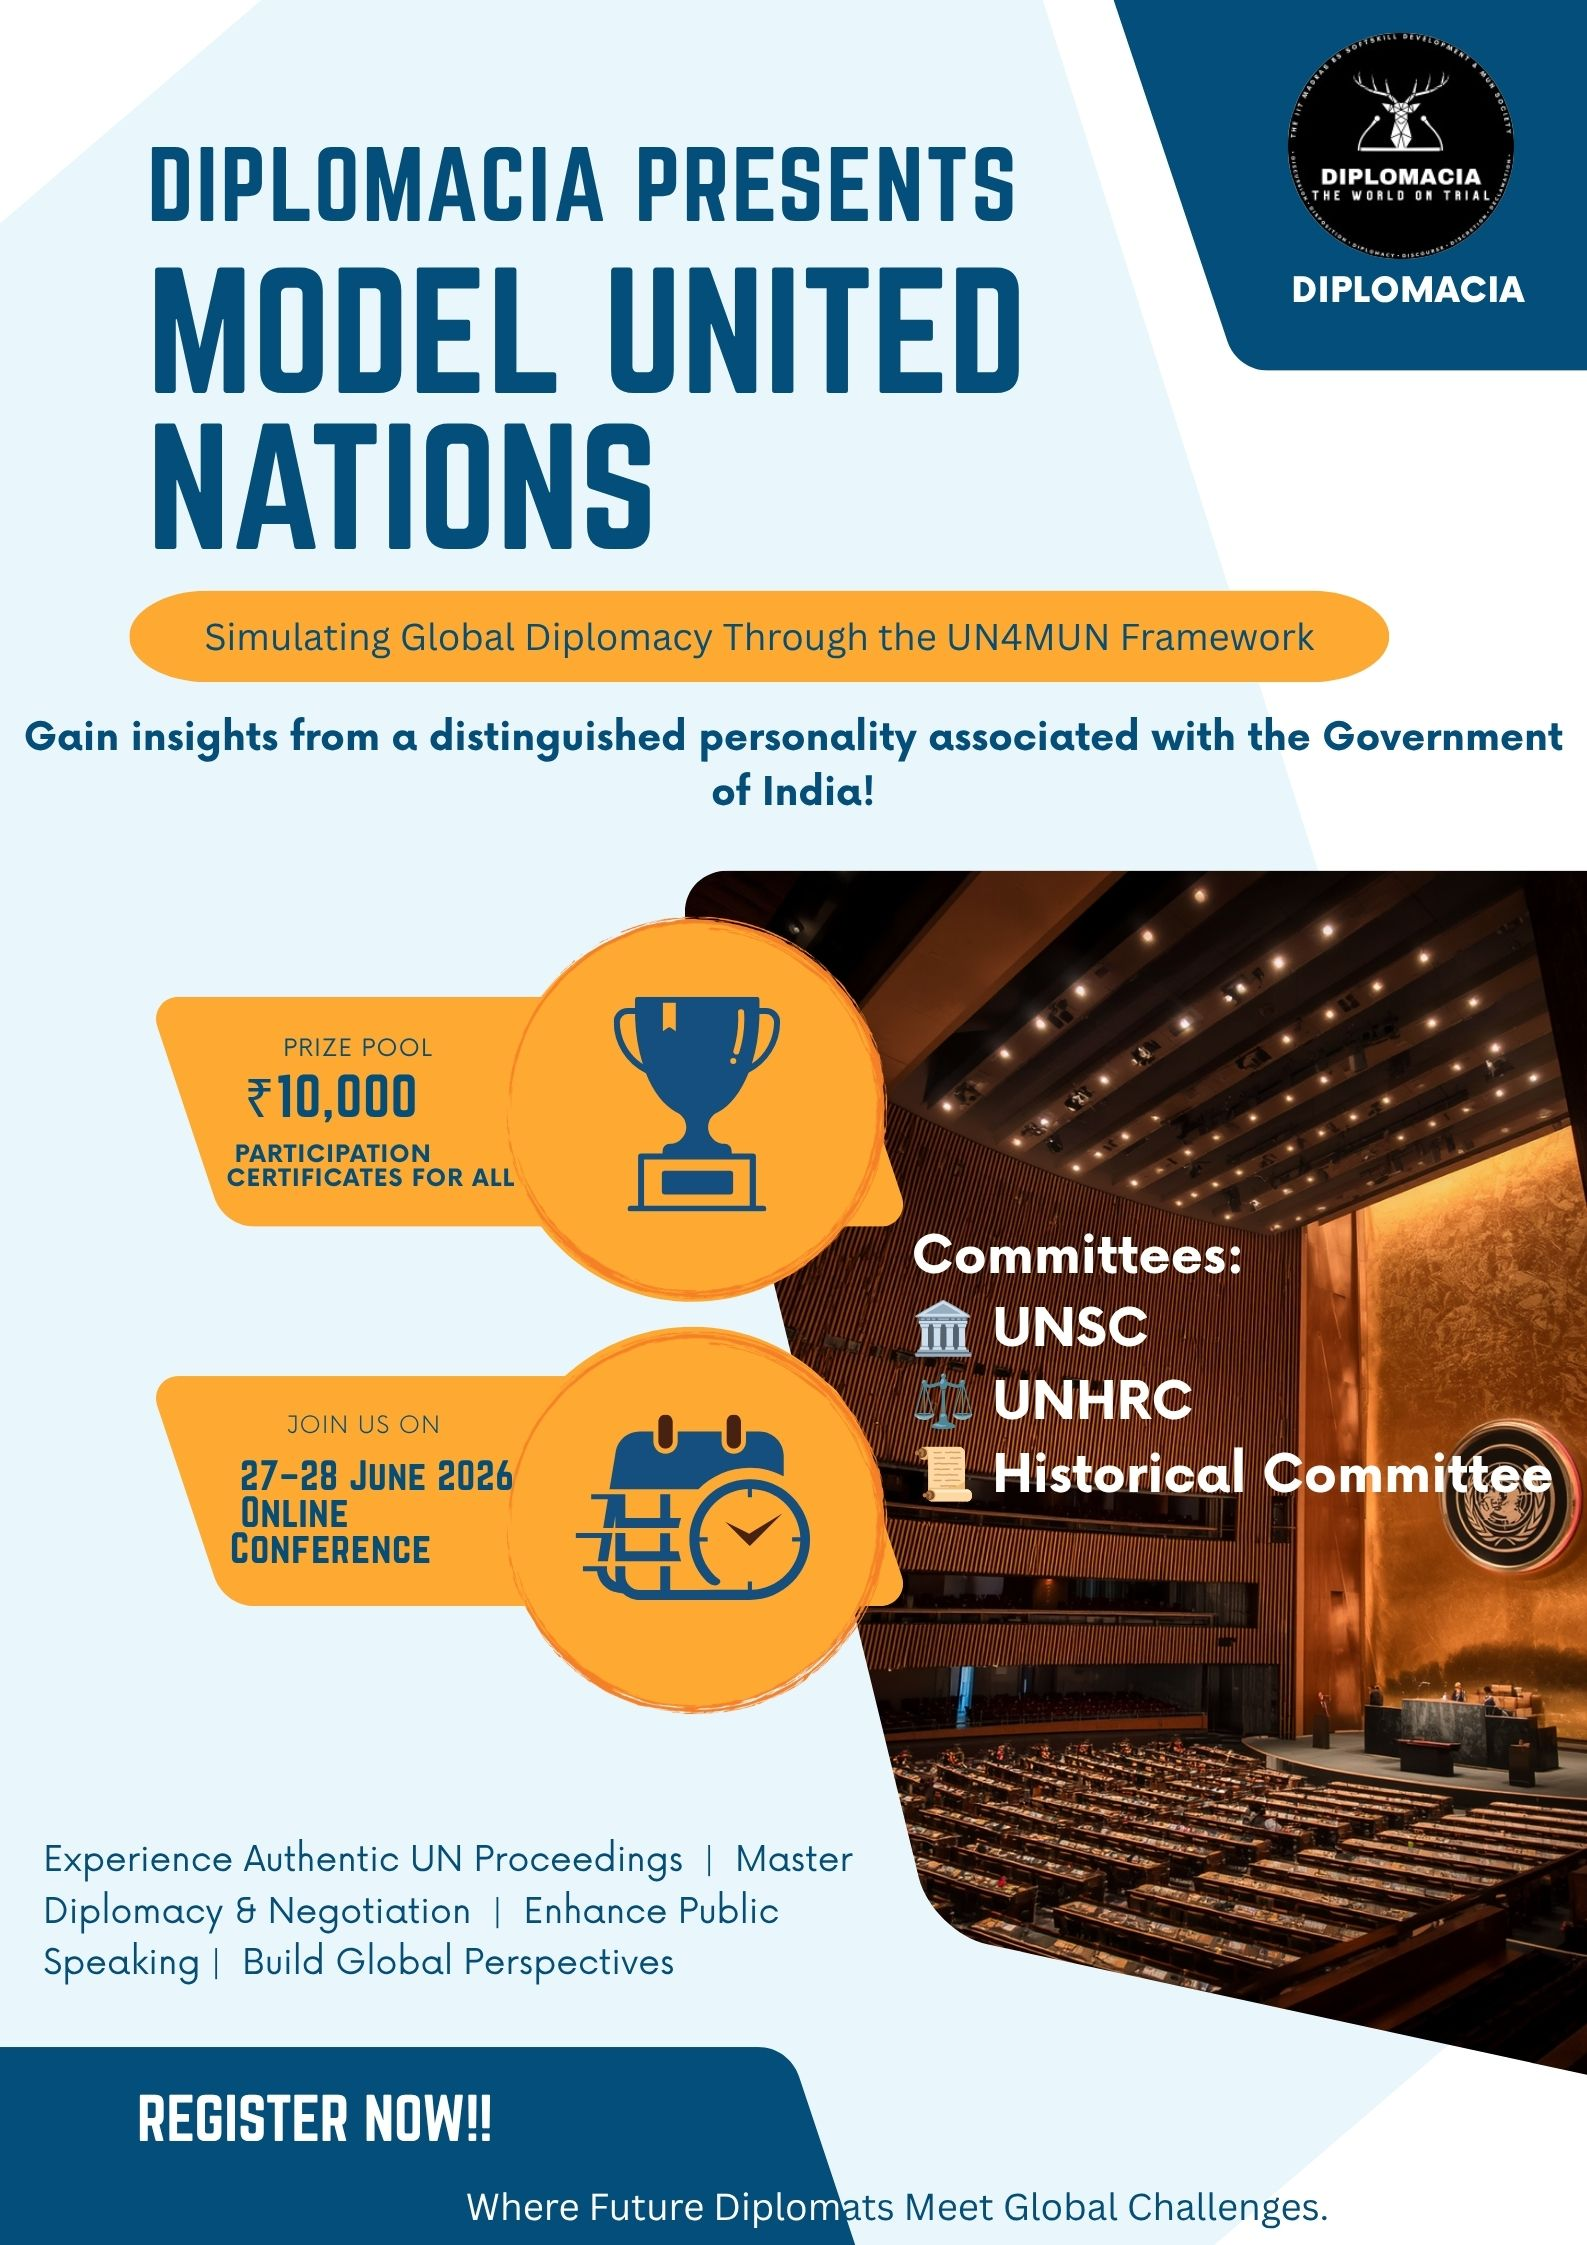
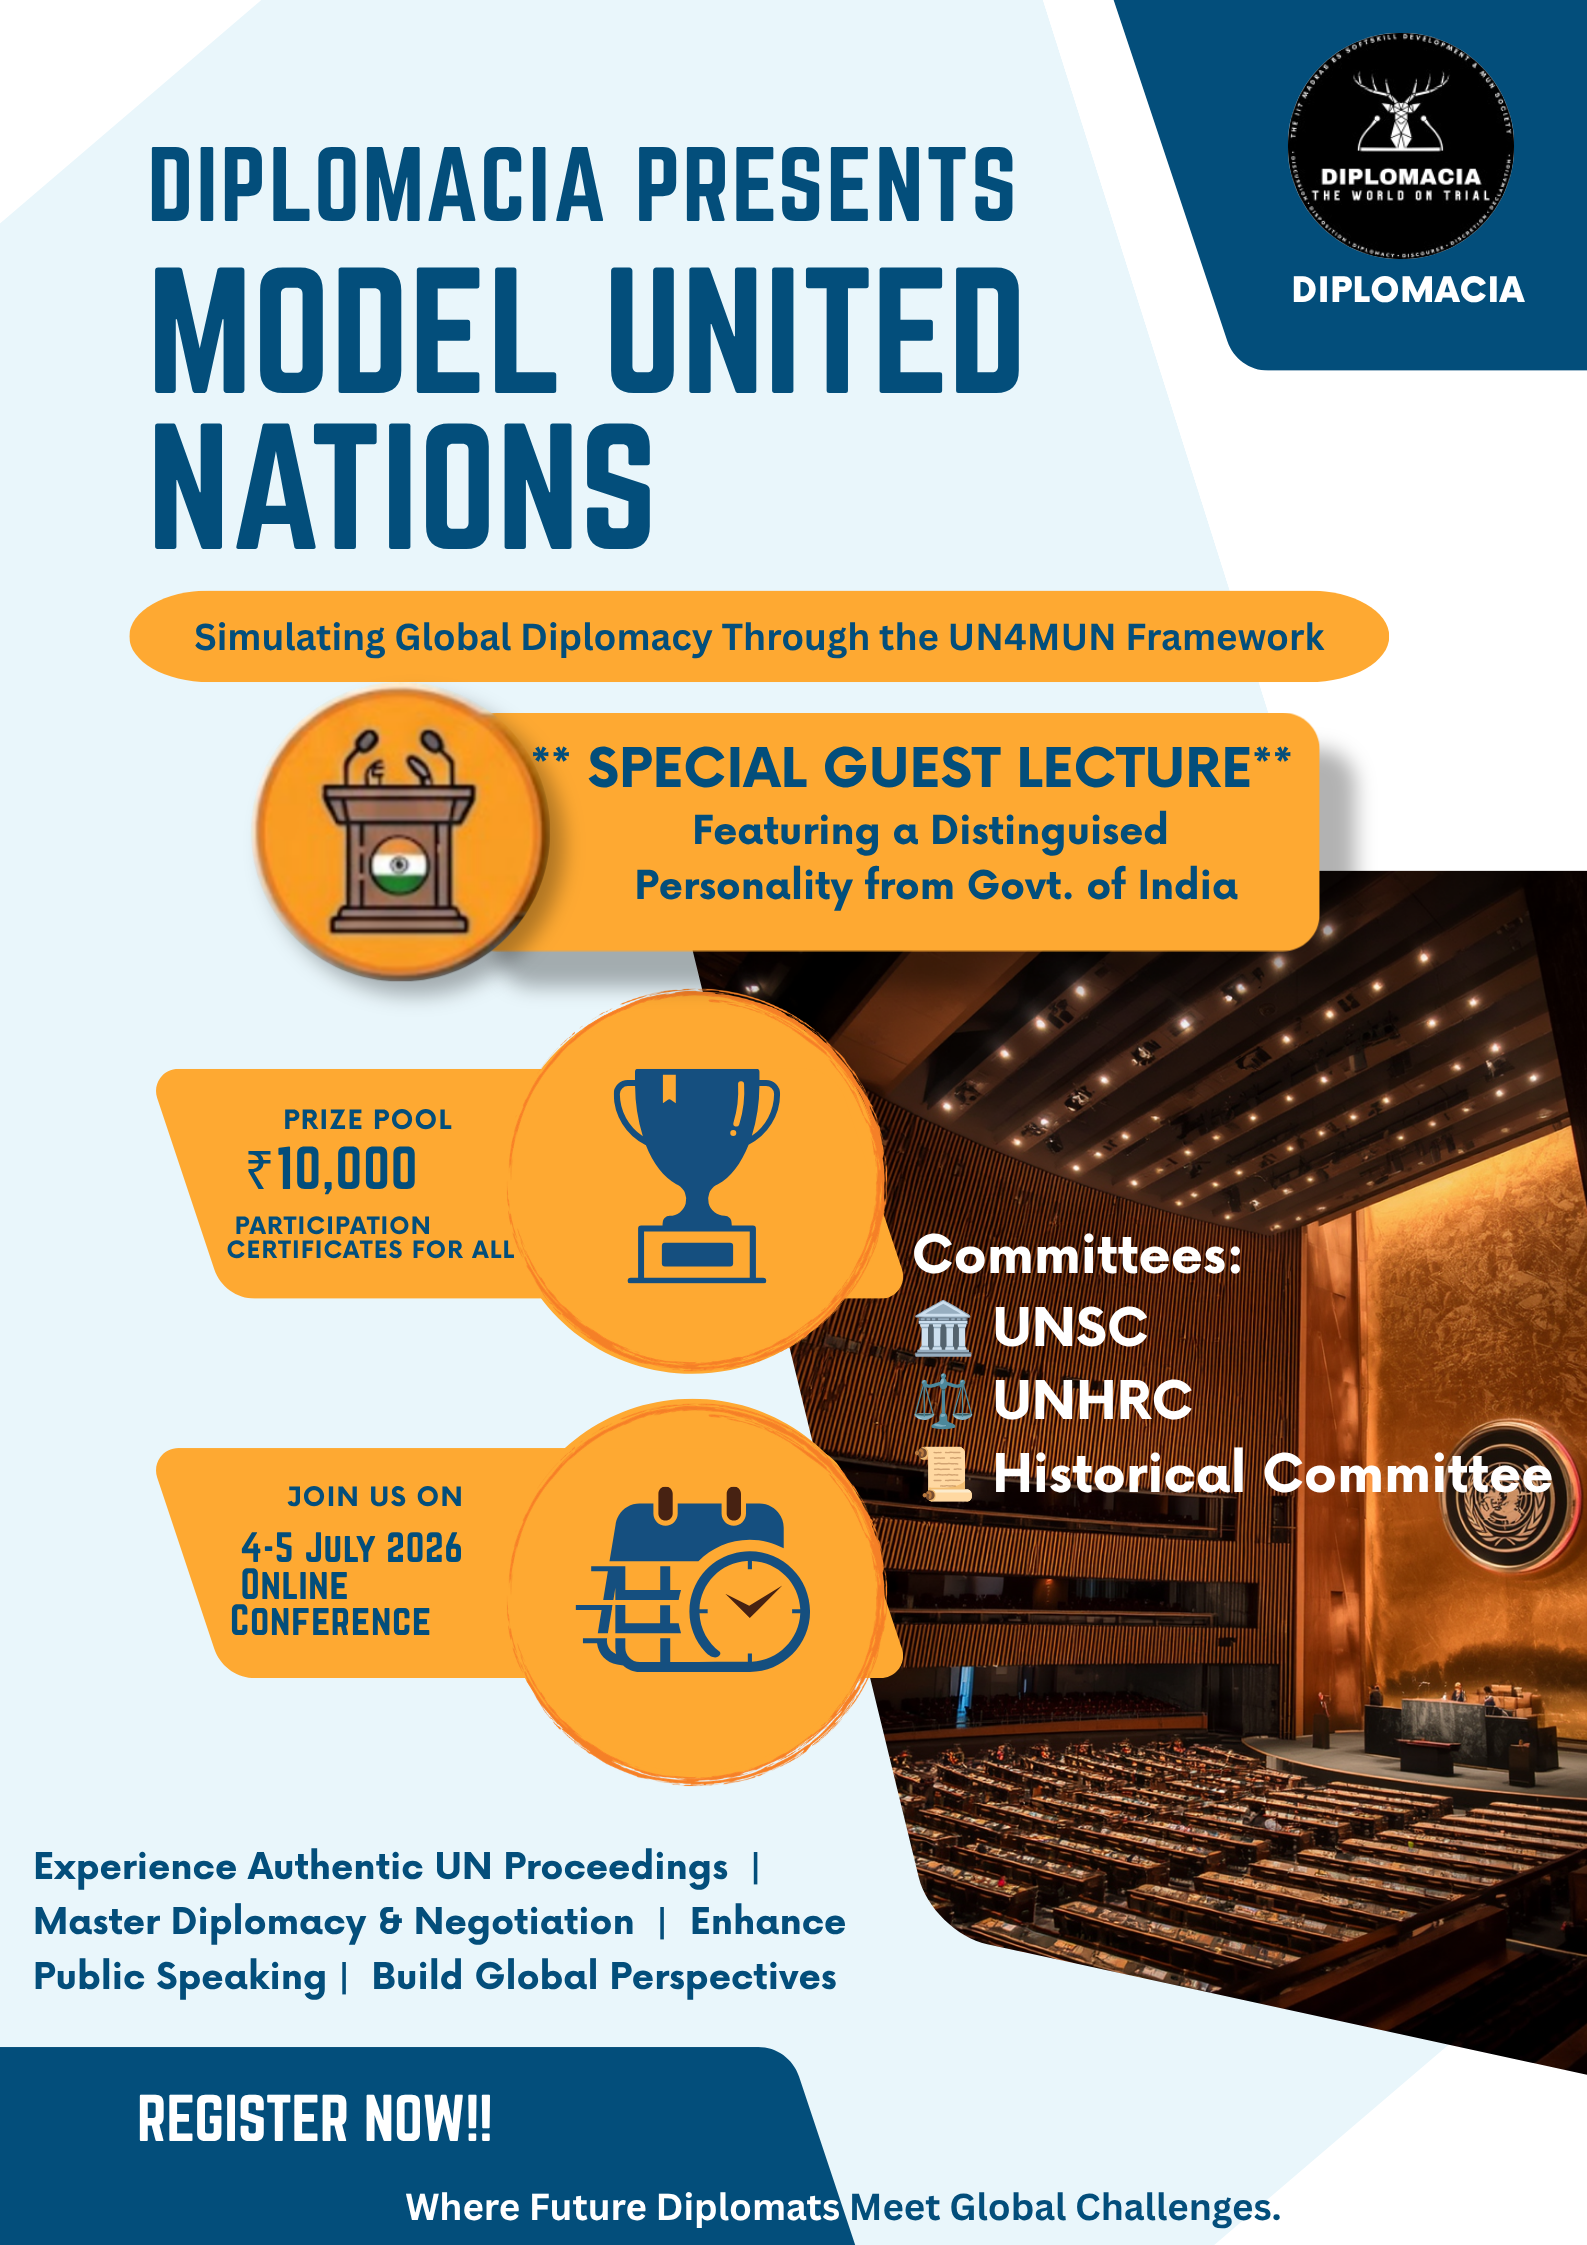
chore: update dates and posters for the un4mun and aippm events

Changed region(s): [[0.0, 0.2494, 0.988, 0.9042], [0.247, 0.9666, 0.8336, 0.9978], [0.1235, 0.9354, 0.1544, 0.9666]]

diff --git a/data/events.ts b/data/events.ts
@@ -32,7 +32,7 @@ export const featuredEvents: FeaturedEvent[] = [
         sessions: [
             {
                 title: "AIPPM 2026",
-                date: "28 June 2026",
+                date: "5 July 2026",
                 description: "Discussions on the Constitution (131st Amendment) Bill, 2026 with Special Emphasis on Women's Reservation and Delimitation.",
                 poster: "/assets/featured_events/aippm/AIPPM 2026.png"
             }
@@ -46,6 +46,32 @@ export const featuredEvents: FeaturedEvent[] = [
             {
                 label: "View Brochure",
                 href: "/assets/featured_events/aippm/Diplomacia's Aippm.pdf",
+            }
+        ]
+    },
+    {
+        slug: "mun",
+        title: "Model United Nations",
+        subtitle: "Virtual Conference (UN4MUN)",
+        description: "The conference follows the UN4MUN framework, offering participants an authentic simulation of United Nations proceedings that emphasizes diplomacy, consensus-building, and collaborative problem-solving.",
+        thumbnail: "/assets/featured_events/mun/Online Model United Nations 2026 Diplomacia Summit (1).jpg.jpeg",
+        sessions: [
+            {
+                title: "Model United Nations",
+                date: "4 - 5 July 2026",
+                description: "An authentic simulation of United Nations proceedings that emphasizes diplomacy, consensus-building, and collaborative problem-solving.",
+                poster: "/assets/featured_events/mun/Online Model United Nations 2026 Diplomacia Summit (1).jpg.jpeg"
+            }
+        ],
+        customCTAs: [
+            {
+                label: "Register Now",
+                href: "/events/mun#register",
+                primary: true,
+            },
+            {
+                label: "Explore Event",
+                href: "/events/mun",
             }
         ]
     },
@@ -181,30 +207,5 @@ export const featuredEvents: FeaturedEvent[] = [
             }
         ]
     },
-    {
-        slug: "mun",
-        title: "Model United Nations",
-        subtitle: "Virtual Conference (UN4MUN)",
-        description: "The conference follows the UN4MUN framework, offering participants an authentic simulation of United Nations proceedings that emphasizes diplomacy, consensus-building, and collaborative problem-solving.",
-        thumbnail: "/assets/featured_events/mun/Online Model United Nations 2026 Diplomacia Summit (1).jpg.jpeg",
-        sessions: [
-            {
-                title: "Model United Nations",
-                date: "27 - 28 June 2026",
-                description: "An authentic simulation of United Nations proceedings that emphasizes diplomacy, consensus-building, and collaborative problem-solving.",
-                poster: "/assets/featured_events/mun/Online Model United Nations 2026 Diplomacia Summit (1).jpg.jpeg"
-            }
-        ],
-        customCTAs: [
-            {
-                label: "Register Now",
-                href: "/events/mun#register",
-                primary: true,
-            },
-            {
-                label: "Explore Event",
-                href: "/events/mun",
-            }
-        ]
-    }
+    
 ];

diff --git a/app/page.tsx b/app/page.tsx
@@ -17,15 +17,15 @@ export default function Home() {
     {
       tag: "Flagship Event",
       title: "AIPPM 2026",
-      details: "Discussions on the 131st Amendment Bill • Delhi, 28 June",
-      detailsMobile: "Delhi, 28 June",
+      details: "Discussions on the 131st Amendment Bill • Delhi, 5 July",
+      detailsMobile: "Delhi, 5 July",
       href: "/events/aippm"
     },
     {
       tag: "Virtual Conference",
       title: "Model United Nations",
-      details: "UN4MUN Framework Simulation • Online, 27 - 28 June",
-      detailsMobile: "Online, 27-28 June",
+      details: "UN4MUN Framework Simulation • Online, 4 - 5 July",
+      detailsMobile: "Online, 4-5 July",
       href: "/events/mun"
     }
   ];

diff --git a/app/events/mun/page.tsx b/app/events/mun/page.tsx
@@ -218,7 +218,7 @@ export default function MUNEventPage() {
                         <Calendar className="w-6 h-6 text-accent" />
                         <div className="text-center">
                             <p className="text-[9px] uppercase tracking-[0.2em] opacity-40">Date</p>
-                            <p className="text-xs md:text-sm uppercase tracking-[0.15em] font-medium mt-1">27 - 28 June 2026</p>
+                            <p className="text-xs md:text-sm uppercase tracking-[0.15em] font-medium mt-1">4 - 5 July 2026</p>
                         </div>
                     </div>
 

diff --git a/app/events/aippm/page.tsx b/app/events/aippm/page.tsx
@@ -160,7 +160,7 @@ export default function AIPPMEventPage() {
                         <Calendar className="w-6 h-6 text-accent" />
                         <div className="text-center">
                             <p className="text-[9px] uppercase tracking-[0.2em] opacity-40">Date</p>
-                            <p className="text-xs md:text-sm uppercase tracking-[0.15em] font-medium mt-1">28 June 2026</p>
+                            <p className="text-xs md:text-sm uppercase tracking-[0.15em] font-medium mt-1">5 July 2026</p>
                         </div>
                     </div>
 
